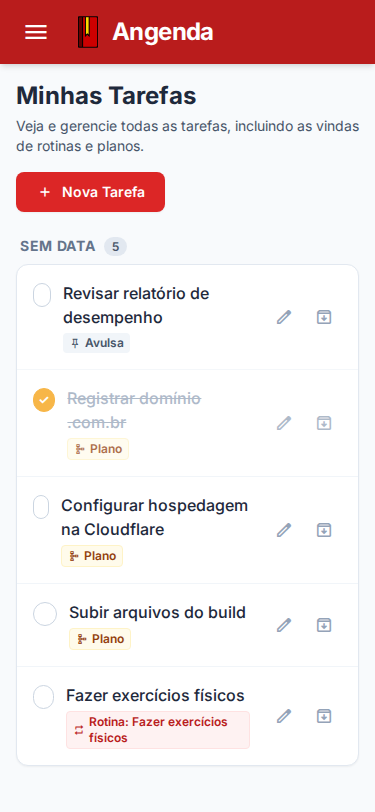
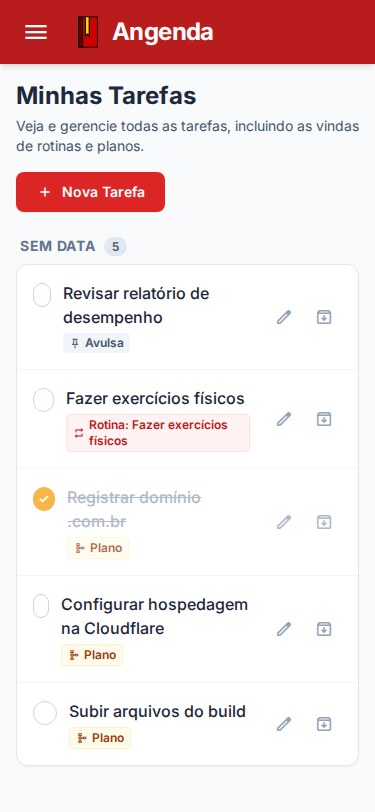
Migrate all object ID generation to safe, pure UUID v4 with chronological sequential sorting
- Replaced content-based hash/string ID generation for Tasks, Routines, Plans, PlanTasks, and RoutineTasks with unique RFC-4122 compliant UUID v4 strings.
- Added a pure sequential and random UUID generator in `fonte/Main.elm` that preserves stable creation sorting when loaded alphabetically from IndexedDB.
- Seeded the generator dynamically from JavaScript via runtime flags on application initialization.
- Updated Playwright end-to-end tests to dynamically extract edit URLs from the page rather than relying on hardcoded content-based paths, maintaining 100% test compatibility.

diff --git a/testes/páginas.js b/testes/páginas.js
@@ -65,6 +65,8 @@ test('Populate data and generate screenshots for all screens', async ({ page }) 
   // Edit the newly created plan
   await page.click('a:has-text("Editar")');
   await page.waitForSelector('#add-plan-task-btn');
+  const planEditPath = new URL(page.url()).pathname.substring(1);
+  console.log('Captured planEditPath:', planEditPath);
 
   // Step 3a: Add first plan task via the new page
   await page.click('#add-plan-task-btn');
@@ -104,6 +106,8 @@ test('Populate data and generate screenshots for all screens', async ({ page }) 
   await page.waitForSelector('a[title="Editar Tarefa"]', { timeout: 10000 });
   await page.click('a[title="Editar Tarefa"]');
   await page.waitForSelector('#new-task-title', { timeout: 10000 });
+  const taskEditPath = new URL(page.url()).pathname.substring(1);
+  console.log('Captured taskEditPath:', taskEditPath);
   await page.fill('#new-task-title', 'Comprar mantimentos para a semana inteira');
   await page.click('button[type="submit"]');
   await page.waitForTimeout(500);
@@ -143,11 +147,11 @@ test('Populate data and generate screenshots for all screens', async ({ page }) 
   const routes = [
     'tarefas',
     'tarefas/nova',
-    'tarefas/editar/task_0_Comprar_mantimentos_para_a_semana',
+    taskEditPath,
     'rotinas',
     'planos',
     'planos/novo',
-    'planos/editar/plan_0_Lançar_novo_website_pessoal',
+    planEditPath,
     'arquivo'
   ];
 

diff --git a/fonte/index.html b/fonte/index.html
@@ -151,7 +151,10 @@
             // Browser.application needs a flags argument, and returns { ports } if they are declared in Main.elm
             const app = Elm.Main.init({
                 node: document.getElementById('elm-app'),
-                flags: todayStr
+                flags: {
+                    today: todayStr,
+                    seed: Math.floor(Math.random() * 2147483647)
+                }
             });
 
             // Handle loadData command
